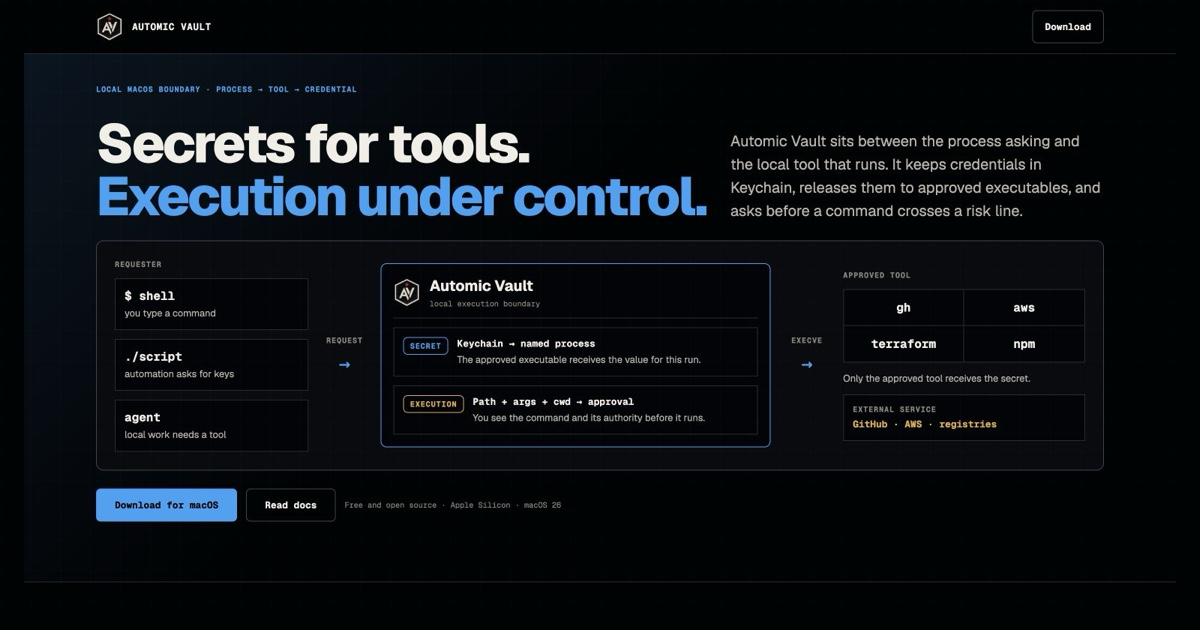
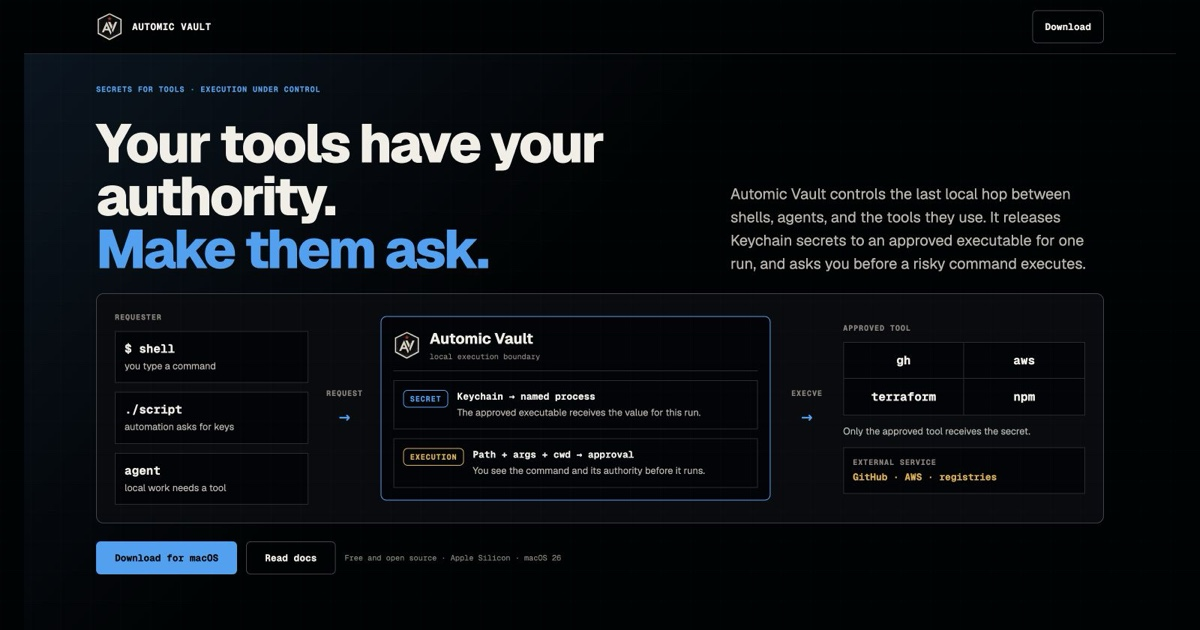
Lead homepage with tool authority

diff --git a/www/index.html b/www/index.html
@@ -12,17 +12,17 @@
   <meta charset="UTF-8">
   <meta name="viewport" content="width=device-width, initial-scale=1.0, viewport-fit=cover">
   <title>Automic Vault | Secrets and Execution for Local Tools</title>
-  <meta name="description" content="Automic Vault is a local macOS secrets and execution manager for developer tools. Keep credentials out of agent-readable files, inject them only into approved executables, and review risky tool runs.">
+  <meta name="description" content="Automic Vault controls the local executable boundary between shells or agents and developer tools. Release Keychain secrets for one run and approve risky commands before they execute.">
   <meta property="og:type" content="website">
   <meta property="og:site_name" content="Automic Vault">
-  <meta property="og:title" content="Automic Vault | Secrets and Execution for Local Tools">
-  <meta property="og:description" content="Give approved local tools the secrets they need, and put human approval in front of risky execution.">
+  <meta property="og:title" content="Your tools have your authority. Make them ask.">
+  <meta property="og:description" content="Automic Vault releases Keychain secrets to approved local tools for one run and asks before risky commands execute.">
   <meta property="og:url" content="https://www.automicvault.com/">
   <meta property="og:image" content="https://www.automicvault.com/preview.jpg">
   <meta name="twitter:card" content="summary_large_image">
   <meta name="twitter:image" content="https://www.automicvault.com/preview.jpg">
-  <meta name="twitter:title" content="Automic Vault | Secrets and Execution for Local Tools">
-  <meta name="twitter:description" content="Give approved local tools the secrets they need, and put human approval in front of risky execution.">
+  <meta name="twitter:title" content="Your tools have your authority. Make them ask.">
+  <meta name="twitter:description" content="Automic Vault releases Keychain secrets to approved local tools for one run and asks before risky commands execute.">
   <link rel="canonical" href="https://www.automicvault.com/">
   <link rel="alternate" hreflang="en" href="https://www.automicvault.com/">
   <link rel="alternate" hreflang="ja" href="https://www.automicvault.com/ja/">
@@ -109,8 +109,8 @@
         "@id": "https://www.automicvault.com/#webpage",
         "url": "https://www.automicvault.com/",
         "name": "Automic Vault | Secrets and Execution for Local Tools",
-        "headline": "Secrets for tools. Execution under control.",
-        "description": "Automic Vault is a local macOS secrets and execution manager for developer tools.",
+        "headline": "Your tools have your authority. Make them ask.",
+        "description": "Automic Vault controls the local executable boundary where developer tools receive credentials and run sensitive commands.",
         "datePublished": "2026-05-15",
         "dateModified": "2026-07-09",
         "image": "https://www.automicvault.com/preview.jpg",
@@ -141,9 +141,9 @@
   <main>
     <section class="boundary-hero" aria-labelledby="hero-title">
       <div class="boundary-hero-copy">
-        <p class="boundary-orientation">Local macOS boundary · process → tool → credential</p>
-        <h1 id="hero-title">Secrets for tools.<br><span>Execution under control.</span></h1>
-        <p class="boundary-lede">Automic Vault sits between the process asking and the local tool that runs. It keeps credentials in Keychain, releases them to approved executables, and asks before a command crosses a risk line.</p>
+        <p class="boundary-orientation">Secrets for tools · execution under control</p>
+        <h1 id="hero-title">Your tools have your authority.<br><span>Make them ask.</span></h1>
+        <p class="boundary-lede">Automic Vault controls the last local hop between shells, agents, and the tools they use. It releases Keychain secrets to an approved executable for one run, and asks you before a risky command executes.</p>
       </div>
 
       <div class="execution-map" data-execution-map role="group" aria-label="A shell, script, or agent sends a request through Automic Vault to an approved local tool. The tool, not the requester, receives the secret before contacting an external service.">
@@ -192,7 +192,7 @@
 
     <section class="boundary-problem" id="detect" aria-labelledby="problem-title">
       <div class="boundary-section-copy">
-        <h2 id="problem-title">Your local tools already hold real authority.</h2>
+        <h2 id="problem-title">A readable credential lets another local process act as you.</h2>
         <p>Cloud CLIs, source-control clients, deployment scripts, and release tools can read private data or change remote systems. Their credentials often sit in files that every local process can read.</p>
       </div>
       <dl class="authority-ledger">

diff --git a/www/ja/index.html b/www/ja/index.html
@@ -44,7 +44,7 @@
     "@type": "WebPage",
     "url": "https://www.automicvault.com/ja/",
     "name": "Automic Vault | ローカルツールのシークレットと実行を管理",
-    "headline": "ツールにシークレットを。実行は管理下に。",
+    "headline": "ツールはあなたの権限で動く。 使う前に承認させる。",
     "description": "Automic Vault は macOS 上でツールへのシークレット注入と高リスクコマンドの実行を管理します。認証情報を Keychain に保管し、承認された実行ファイルだけに渡します。",
     "inLanguage": "ja",
     "image": "https://www.automicvault.com/preview.jpg",
@@ -65,9 +65,9 @@
   <main>
     <section class="boundary-hero" aria-labelledby="hero-title">
       <div class="boundary-hero-copy">
-        <p class="boundary-orientation">macOS のローカル境界 · プロセス → ツール → 認証情報</p>
-        <h1 id="hero-title">ツールにシークレットを。実行は管理下に。</h1>
-        <p class="boundary-lede">Automic Vault は、要求するプロセスと実行されるローカルツールの間に入ります。認証情報を Keychain に保管し、承認された実行ファイルだけに渡し、危険なコマンドは実行前に確認します。</p>
+        <p class="boundary-orientation">ツールのためのシークレット · 実行を制御</p>
+        <h1 id="hero-title">ツールはあなたの権限で動く。<br><span>使う前に承認させる。</span></h1>
+        <p class="boundary-lede">Automic Vault は shell や agent と、それらが使うツールの間にある最後のローカル区間を管理します。Keychain のシークレットを承認済み実行ファイルへ 1 回の実行だけ渡し、危険なコマンドは実行前に確認します。</p>
       </div>
 
       <div class="execution-map" data-execution-map role="group" aria-label="macOS のローカル境界 · プロセス → ツール → 認証情報">
@@ -110,7 +110,7 @@
 
     <section class="boundary-problem" id="detect" aria-labelledby="problem-title">
       <div class="boundary-section-copy">
-        <h2 id="problem-title">ローカルツールは、すでに強い権限を持っています。</h2>
+        <h2 id="problem-title">読み取り可能な認証情報があれば、別のローカルプロセスがあなたとして動けます。</h2>
         <p>クラウド CLI、ソース管理クライアント、デプロイスクリプト、公開ツールは、非公開データを読み、リモートシステムを変更できます。認証情報は、ローカルプロセスが読めるファイルに残りがちです。</p>
       </div>
       <dl class="authority-ledger">

diff --git a/www/fr/index.html b/www/fr/index.html
@@ -44,7 +44,7 @@
     "@type": "WebPage",
     "url": "https://www.automicvault.com/fr/",
     "name": "Automic Vault | Secrets et exécution pour les outils locaux",
-    "headline": "Des secrets pour les outils. Une exécution contrôlée.",
+    "headline": "Vos outils ont vos autorisations. Faites-leur demander l’accord.",
     "description": "Automic Vault gère localement sur macOS l’injection de secrets et l’exécution sensible des outils. Les identifiants restent dans le trousseau et vont seulement aux exécutables approuvés.",
     "inLanguage": "fr",
     "image": "https://www.automicvault.com/preview.jpg",
@@ -65,9 +65,9 @@
   <main>
     <section class="boundary-hero" aria-labelledby="hero-title">
       <div class="boundary-hero-copy">
-        <p class="boundary-orientation">Limite macOS locale · processus → outil → identifiant</p>
-        <h1 id="hero-title">Des secrets pour les outils. Une exécution contrôlée.</h1>
-        <p class="boundary-lede">Automic Vault se place entre le processus demandeur et l’outil local. Les identifiants restent dans le trousseau, seuls les exécutables approuvés les reçoivent, et les commandes risquées attendent votre validation.</p>
+        <p class="boundary-orientation">Des secrets pour les outils · une exécution sous contrôle</p>
+        <h1 id="hero-title">Vos outils ont vos autorisations.<br><span>Faites-leur demander l’accord.</span></h1>
+        <p class="boundary-lede">Automic Vault contrôle le dernier passage local entre les shells, les agents et les outils qu’ils utilisent. Il transmet un secret du trousseau à un exécutable approuvé pour une seule exécution et vous consulte avant une commande risquée.</p>
       </div>
 
       <div class="execution-map" data-execution-map role="group" aria-label="Limite macOS locale · processus → outil → identifiant">
@@ -110,7 +110,7 @@
 
     <section class="boundary-problem" id="detect" aria-labelledby="problem-title">
       <div class="boundary-section-copy">
-        <h2 id="problem-title">Vos outils locaux possèdent déjà de vrais pouvoirs.</h2>
+        <h2 id="problem-title">Un identifiant lisible permet à un autre processus local d’agir en votre nom.</h2>
         <p>Les CLI cloud, clients de gestion de source, scripts de déploiement et outils de publication peuvent lire des données privées ou modifier des systèmes distants. Leurs identifiants restent souvent dans des fichiers lisibles par tout processus local.</p>
       </div>
       <dl class="authority-ledger">

diff --git a/www/de/index.html b/www/de/index.html
@@ -44,7 +44,7 @@
     "@type": "WebPage",
     "url": "https://www.automicvault.com/de/",
     "name": "Automic Vault | Secrets und Ausführung für lokale Tools",
-    "headline": "Secrets für Tools. Ausführung unter Kontrolle.",
+    "headline": "Deine Tools haben deine Berechtigungen. Lass sie um Freigabe bitten.",
     "description": "Automic Vault verwaltet Secret-Injection und riskante Tool-Ausführung lokal auf macOS. Credentials bleiben im Schlüsselbund und erreichen nur genehmigte Executables.",
     "inLanguage": "de",
     "image": "https://www.automicvault.com/preview.jpg",
@@ -65,9 +65,9 @@
   <main>
     <section class="boundary-hero" aria-labelledby="hero-title">
       <div class="boundary-hero-copy">
-        <p class="boundary-orientation">Lokale macOS-Grenze · Prozess → Tool → Credential</p>
-        <h1 id="hero-title">Secrets für Tools. Ausführung unter Kontrolle.</h1>
-        <p class="boundary-lede">Automic Vault sitzt zwischen dem anfragenden Prozess und dem lokalen Tool. Credentials bleiben im Schlüsselbund, erreichen nur genehmigte Executables und riskante Befehle warten auf deine Freigabe.</p>
+        <p class="boundary-orientation">Secrets für Tools · Ausführung unter Kontrolle</p>
+        <h1 id="hero-title">Deine Tools haben deine Berechtigungen.<br><span>Lass sie um Freigabe bitten.</span></h1>
+        <p class="boundary-lede">Automic Vault kontrolliert den letzten lokalen Übergang zwischen Shells, Agents und den Tools, die sie verwenden. Es gibt Secrets aus dem Schlüsselbund für genau einen Lauf an ein genehmigtes Executable und fragt dich vor riskanten Befehlen.</p>
       </div>
 
       <div class="execution-map" data-execution-map role="group" aria-label="Lokale macOS-Grenze · Prozess → Tool → Credential">
@@ -110,7 +110,7 @@
 
     <section class="boundary-problem" id="detect" aria-labelledby="problem-title">
       <div class="boundary-section-copy">
-        <h2 id="problem-title">Deine lokalen Tools haben bereits echte Berechtigungen.</h2>
+        <h2 id="problem-title">Ein lesbares Credential lässt einen anderen lokalen Prozess als dich handeln.</h2>
         <p>Cloud-CLIs, Source-Control-Clients, Deploy-Skripte und Publisher können private Daten lesen oder entfernte Systeme ändern. Ihre Credentials liegen oft in Dateien, die jeder lokale Prozess lesen kann.</p>
       </div>
       <dl class="authority-ledger">

diff --git a/www/zh-hans/index.html b/www/zh-hans/index.html
@@ -44,7 +44,7 @@
     "@type": "WebPage",
     "url": "https://www.automicvault.com/zh-hans/",
     "name": "Automic Vault | 管理本地工具使用的密钥与执行权限",
-    "headline": "密钥交给工具。执行由你掌控。",
+    "headline": "工具握有你的权限。 让它们先请求批准。",
     "description": "Automic Vault 在 macOS 本地管理工具的密钥注入和高风险命令执行。凭据保存在 Keychain 中，只提供给已批准的可执行文件。",
     "inLanguage": "zh-Hans",
     "image": "https://www.automicvault.com/preview.jpg",
@@ -65,9 +65,9 @@
   <main>
     <section class="boundary-hero" aria-labelledby="hero-title">
       <div class="boundary-hero-copy">
-        <p class="boundary-orientation">macOS 本地边界 · 进程 → 工具 → 凭据</p>
-        <h1 id="hero-title">密钥交给工具。执行由你掌控。</h1>
-        <p class="boundary-lede">Automic Vault 位于发起请求的进程与实际运行的本地工具之间。凭据留在 Keychain 中，只提供给已批准的可执行文件；高风险命令在运行前需要你的确认。</p>
+        <p class="boundary-orientation">密钥属于工具 · 执行由你控制</p>
+        <h1 id="hero-title">工具握有你的权限。<br><span>让它们先请求批准。</span></h1>
+        <p class="boundary-lede">Automic Vault 控制 shell、agent 与它们所用工具之间最后一段本地路径。Keychain 中的密钥只在单次运行时提供给已批准的可执行文件，高风险命令会在执行前征求你的确认。</p>
       </div>
 
       <div class="execution-map" data-execution-map role="group" aria-label="macOS 本地边界 · 进程 → 工具 → 凭据">
@@ -110,7 +110,7 @@
 
     <section class="boundary-problem" id="detect" aria-labelledby="problem-title">
       <div class="boundary-section-copy">
-        <h2 id="problem-title">你的本地工具已经拥有真实权限。</h2>
+        <h2 id="problem-title">可读取的凭据会让另一个本地进程以你的身份行动。</h2>
         <p>云 CLI、源代码管理客户端、部署脚本和发布工具可以读取私有数据或修改远程系统。它们的凭据常常留在所有本地进程都能读取的文件中。</p>
       </div>
       <dl class="authority-ledger">

diff --git a/www/styles.css b/www/styles.css
@@ -1,5 +1,6 @@
 /* Hallmark · pre-emit critique: P5 H5 E5 S5 R5 V5
  * Hallmark · genre: modern-minimal · macrostructure: Map / Diagram · theme: Cobalt-dark · enrichment: semantic execution map · nav: N9 · footer: Ft1 · tone: technical/direct · anchor hue: cobalt
+ * Hallmark · Map / Diagram knob delta: hero=authority-led (was category-led) · proof=map-after-claim
  * Hallmark · contrast: pass (40–41) · slop: pass (42–45) · honest: pass (46) · chrome: pass (47) · tokens: pass (48) · responsive/mobile: pass (34, 49–57) · icons: pass (30)
  */
 @import url("./tokens.css?v=2");

diff --git a/scripts/generate-www-i18n.py b/scripts/generate-www-i18n.py
@@ -673,9 +673,11 @@ SUPPORT_SECTIONS: dict[str, list[list[str]]] = {
 LANDING_HOME: dict[str, dict[str, Any]] = {
     "ja": {
         "nav_download": "ダウンロード",
+        "category": "ツールのためのシークレット · 実行を制御",
         "orientation": "macOS のローカル境界 · プロセス → ツール → 認証情報",
-        "hero_h1": "ツールにシークレットを。実行は管理下に。",
-        "hero_lede": "Automic Vault は、要求するプロセスと実行されるローカルツールの間に入ります。認証情報を Keychain に保管し、承認された実行ファイルだけに渡し、危険なコマンドは実行前に確認します。",
+        "hero_h1": "ツールはあなたの権限で動く。",
+        "hero_action": "使う前に承認させる。",
+        "hero_lede": "Automic Vault は shell や agent と、それらが使うツールの間にある最後のローカル区間を管理します。Keychain のシークレットを承認済み実行ファイルへ 1 回の実行だけ渡し、危険なコマンドは実行前に確認します。",
         "download": "macOS 版をダウンロード",
         "docs": "ドキュメント",
         "requester": "要求元",
@@ -691,7 +693,7 @@ LANDING_HOME: dict[str, dict[str, Any]] = {
         "approved_tool": "承認済みツール",
         "tool_note": "承認されたツールだけがシークレットを受け取ります。",
         "external_service": "外部サービス",
-        "problem_title": "ローカルツールは、すでに強い権限を持っています。",
+        "problem_title": "読み取り可能な認証情報があれば、別のローカルプロセスがあなたとして動けます。",
         "problem_body": "クラウド CLI、ソース管理クライアント、デプロイスクリプト、公開ツールは、非公開データを読み、リモートシステムを変更できます。認証情報は、ローカルプロセスが読めるファイルに残りがちです。",
         "risks": [["~/.aws/credentials", "読み取り可能な dotfile にあるクラウド権限"], ["gh auth token", "要求元プロセスへ出力される bearer token"], ["npm publish", "リリース権限を持つローカルコマンド"], ["terraform apply", "現在の shell から行うインフラ変更"]],
         "secrets_title": "シークレットは、ツールの実行にだけ属します。",
@@ -716,9 +718,11 @@ LANDING_HOME: dict[str, dict[str, Any]] = {
     },
     "de": {
         "nav_download": "Download",
+        "category": "Secrets für Tools · Ausführung unter Kontrolle",
         "orientation": "Lokale macOS-Grenze · Prozess → Tool → Credential",
-        "hero_h1": "Secrets für Tools. Ausführung unter Kontrolle.",
-        "hero_lede": "Automic Vault sitzt zwischen dem anfragenden Prozess und dem lokalen Tool. Credentials bleiben im Schlüsselbund, erreichen nur genehmigte Executables und riskante Befehle warten auf deine Freigabe.",
+        "hero_h1": "Deine Tools haben deine Berechtigungen.",
+        "hero_action": "Lass sie um Freigabe bitten.",
+        "hero_lede": "Automic Vault kontrolliert den letzten lokalen Übergang zwischen Shells, Agents und den Tools, die sie verwenden. Es gibt Secrets aus dem Schlüsselbund für genau einen Lauf an ein genehmigtes Executable und fragt dich vor riskanten Befehlen.",
         "download": "Für macOS laden",
         "docs": "Doku lesen",
         "requester": "Anfrage",
@@ -734,7 +738,7 @@ LANDING_HOME: dict[str, dict[str, Any]] = {
         "approved_tool": "Genehmigtes Tool",
         "tool_note": "Nur das freigegebene Tool erhält das Secret.",
         "external_service": "Externer Dienst",
-        "problem_title": "Deine lokalen Tools haben bereits echte Berechtigungen.",
+        "problem_title": "Ein lesbares Credential lässt einen anderen lokalen Prozess als dich handeln.",
         "problem_body": "Cloud-CLIs, Source-Control-Clients, Deploy-Skripte und Publisher können private Daten lesen oder entfernte Systeme ändern. Ihre Credentials liegen oft in Dateien, die jeder lokale Prozess lesen kann.",
         "risks": [["~/.aws/credentials", "Cloud-Zugriff in einer lesbaren Dotfile"], ["gh auth token", "Ein Bearer-Token für den anfragenden Prozess"], ["npm publish", "Ein lokaler Befehl mit Release-Rechten"], ["terraform apply", "Infrastrukturänderung aus der aktuellen Shell"]],
         "secrets_title": "Das Secret gehört zur Ausführung des Tools.",
@@ -759,9 +763,11 @@ LANDING_HOME: dict[str, dict[str, Any]] = {
     },
     "fr": {
         "nav_download": "Télécharger",
+        "category": "Des secrets pour les outils · une exécution sous contrôle",
         "orientation": "Limite macOS locale · processus → outil → identifiant",
-        "hero_h1": "Des secrets pour les outils. Une exécution contrôlée.",
-        "hero_lede": "Automic Vault se place entre le processus demandeur et l’outil local. Les identifiants restent dans le trousseau, seuls les exécutables approuvés les reçoivent, et les commandes risquées attendent votre validation.",
+        "hero_h1": "Vos outils ont vos autorisations.",
+        "hero_action": "Faites-leur demander l’accord.",
+        "hero_lede": "Automic Vault contrôle le dernier passage local entre les shells, les agents et les outils qu’ils utilisent. Il transmet un secret du trousseau à un exécutable approuvé pour une seule exécution et vous consulte avant une commande risquée.",
         "download": "Télécharger pour macOS",
         "docs": "Lire la documentation",
         "requester": "Demandeur",
@@ -777,7 +783,7 @@ LANDING_HOME: dict[str, dict[str, Any]] = {
         "approved_tool": "Outil approuvé",
         "tool_note": "Seul l’outil approuvé reçoit le secret.",
         "external_service": "Service externe",
-        "problem_title": "Vos outils locaux possèdent déjà de vrais pouvoirs.",
+        "problem_title": "Un identifiant lisible permet à un autre processus local d’agir en votre nom.",
         "problem_body": "Les CLI cloud, clients de gestion de source, scripts de déploiement et outils de publication peuvent lire des données privées ou modifier des systèmes distants. Leurs identifiants restent souvent dans des fichiers lisibles par tout processus local.",
         "risks": [["~/.aws/credentials", "Accès cloud dans un dotfile lisible"], ["gh auth token", "Bearer token imprimé pour le processus demandeur"], ["npm publish", "Commande locale avec droit de publication"], ["terraform apply", "Mutation d’infrastructure depuis le shell courant"]],
         "secrets_title": "Le secret appartient à l’exécution de l’outil.",
@@ -802,9 +808,11 @@ LANDING_HOME: dict[str, dict[str, Any]] = {
     },
     "zh-Hans": {
         "nav_download": "下载",
+        "category": "密钥属于工具 · 执行由你控制",
         "orientation": "macOS 本地边界 · 进程 → 工具 → 凭据",
-        "hero_h1": "密钥交给工具。执行由你掌控。",
-        "hero_lede": "Automic Vault 位于发起请求的进程与实际运行的本地工具之间。凭据留在 Keychain 中，只提供给已批准的可执行文件；高风险命令在运行前需要你的确认。",
+        "hero_h1": "工具握有你的权限。",
+        "hero_action": "让它们先请求批准。",
+        "hero_lede": "Automic Vault 控制 shell、agent 与它们所用工具之间最后一段本地路径。Keychain 中的密钥只在单次运行时提供给已批准的可执行文件，高风险命令会在执行前征求你的确认。",
         "download": "下载 macOS 版",
         "docs": "阅读文档",
         "requester": "请求方",
@@ -820,7 +828,7 @@ LANDING_HOME: dict[str, dict[str, Any]] = {
         "approved_tool": "已批准工具",
         "tool_note": "只有获准的工具会收到密钥。",
         "external_service": "外部服务",
-        "problem_title": "你的本地工具已经拥有真实权限。",
+        "problem_title": "可读取的凭据会让另一个本地进程以你的身份行动。",
         "problem_body": "云 CLI、源代码管理客户端、部署脚本和发布工具可以读取私有数据或修改远程系统。它们的凭据常常留在所有本地进程都能读取的文件中。",
         "risks": [["~/.aws/credentials", "可读 dotfile 中的云账户权限"], ["gh auth token", "输出给请求进程的 bearer token"], ["npm publish", "拥有发布权限的本地命令"], ["terraform apply", "从当前 shell 发起基础设施变更"]],
         "secrets_title": "密钥只属于这次工具执行。",
@@ -1129,7 +1137,7 @@ def render_page(record: dict[str, Any], locale: Locale, locales: list[Locale]) -
 def render_llms(locale: Locale) -> str:
     ui = ui_copy(locale.code)
     landing = LANDING_HOME[locale.code]
-    lines = ["# Automic Vault", landing["hero_h1"], landing["hero_lede"]]
+    lines = ["# Automic Vault", f'{landing["hero_h1"]} {landing["hero_action"]}', landing["hero_lede"]]
     return "\n\n".join(lines) + (
         f"\n\n- {ui['website']}: {href('/', locale)}"
         f"\n- {ui['docs']}: {href('/docs/', locale)}"
@@ -1242,7 +1250,7 @@ def render_home_page(record: dict[str, Any], locale: Locale, locales: list[Local
     "@type": "WebPage",
     "url": "{canonical}",
     "name": {json.dumps(t["title"], ensure_ascii=False)},
-    "headline": {json.dumps(landing["hero_h1"], ensure_ascii=False)},
+    "headline": {json.dumps(f'{landing["hero_h1"]} {landing["hero_action"]}', ensure_ascii=False)},
     "description": {json.dumps(t["description"], ensure_ascii=False)},
     "inLanguage": "{locale.html_lang}",
     "image": "{SITE_ORIGIN}/preview.jpg",
@@ -1263,8 +1271,8 @@ def render_home_page(record: dict[str, Any], locale: Locale, locales: list[Local
   <main>
     <section class="boundary-hero" aria-labelledby="hero-title">
       <div class="boundary-hero-copy">
-        <p class="boundary-orientation">{html.escape(landing["orientation"])}</p>
-        <h1 id="hero-title">{html.escape(landing["hero_h1"])}</h1>
+        <p class="boundary-orientation">{html.escape(landing["category"])}</p>
+        <h1 id="hero-title">{html.escape(landing["hero_h1"])}<br><span>{html.escape(landing["hero_action"])}</span></h1>
         <p class="boundary-lede">{html.escape(landing["hero_lede"])}</p>
       </div>
 

diff --git a/www/index.md b/www/index.md
@@ -1,11 +1,13 @@
 # Automic Vault
 
-## Secrets for tools. Execution under control.
+## Your tools have your authority. Make them ask.
 
-Automic Vault is a local macOS secrets and execution manager for developer
-tools. It sits between the process asking and the executable that runs. Long-
-lived credentials stay in Keychain, approved executables receive named values
-for one run, and risky commands can require human approval.
+Secrets for tools. Execution under control.
+
+Automic Vault controls the last local hop between shells, scripts, agents, and
+the tools they use. It keeps long-lived credentials in Keychain, releases named
+values to an approved executable for one run, and asks you before a risky
+command executes.
 
 [Download for macOS](/Automic%20Vault.dmg) · [Read the docs](/docs/) ·
 [Review the source](https://github.com/automic-vault/automic-vault)
